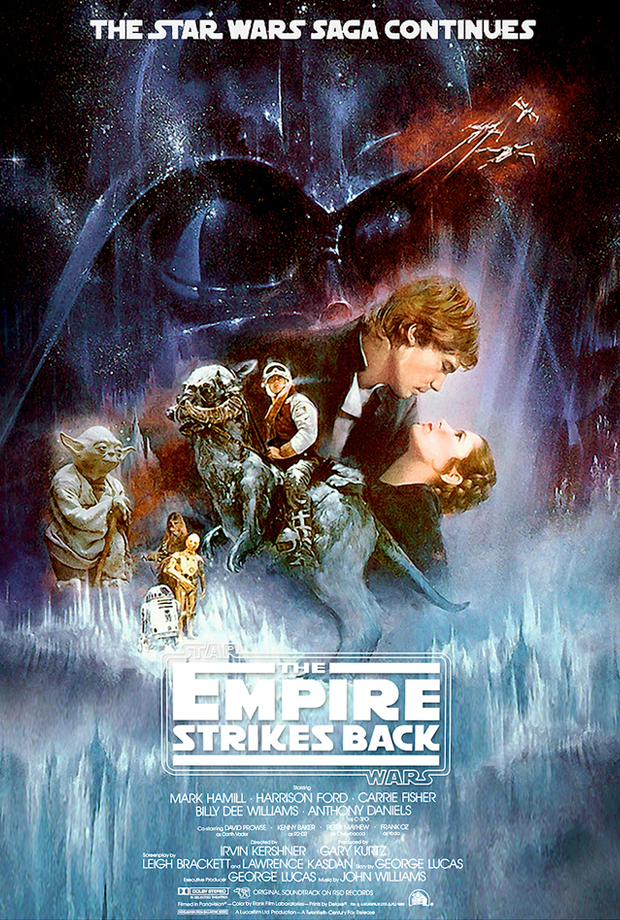
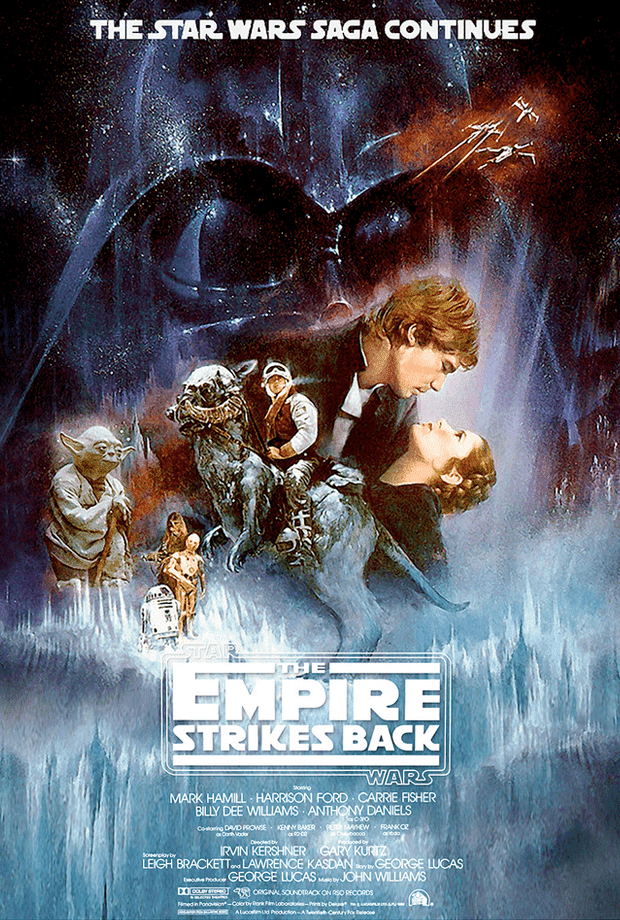
Compress films images

diff --git a/src/components/People/styles.scss b/src/components/People/styles.scss
@@ -202,6 +202,18 @@
 }
 
 @media only screen and (max-width: 500px){
+  .people{
+      &__page{
+        &--button{
+          font-size: 20px;
+        }
+      }
+
+      .singlePage{
+        font-size: 18px;
+      }
+  }
+
   .person{
     &__info{
       &--column{

diff --git a/src/components/People/index.js b/src/components/People/index.js
@@ -28,7 +28,6 @@ class People extends React.Component {
             peoples: response.data.results,
             count: response.data.count,
           });
-          console.log(this.state.peoples);
         });
   }
 
